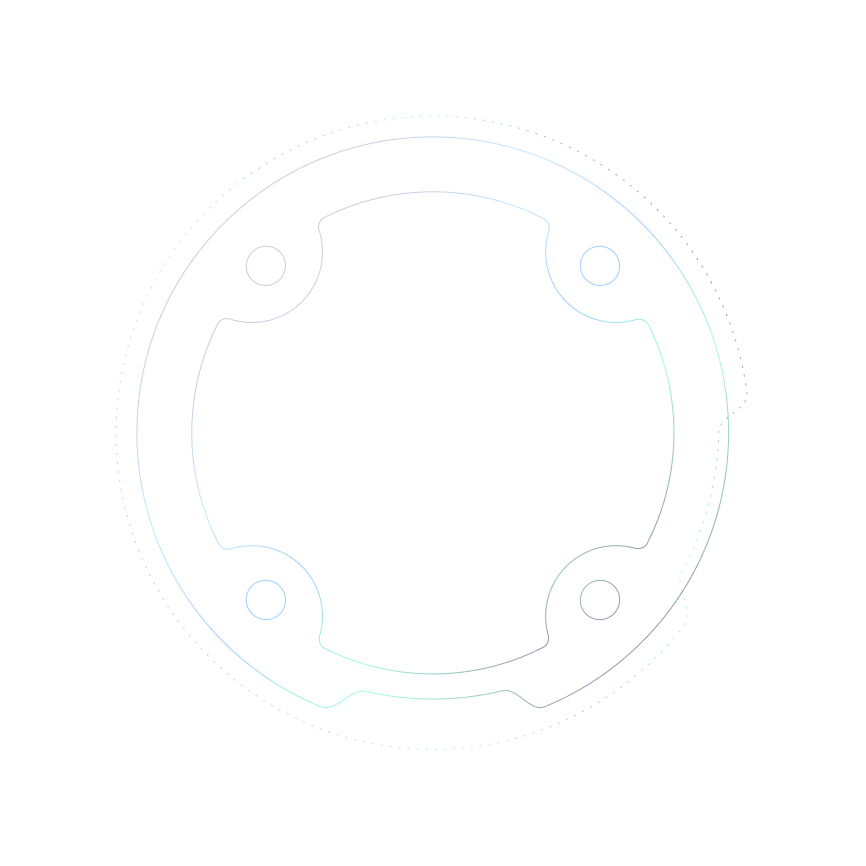
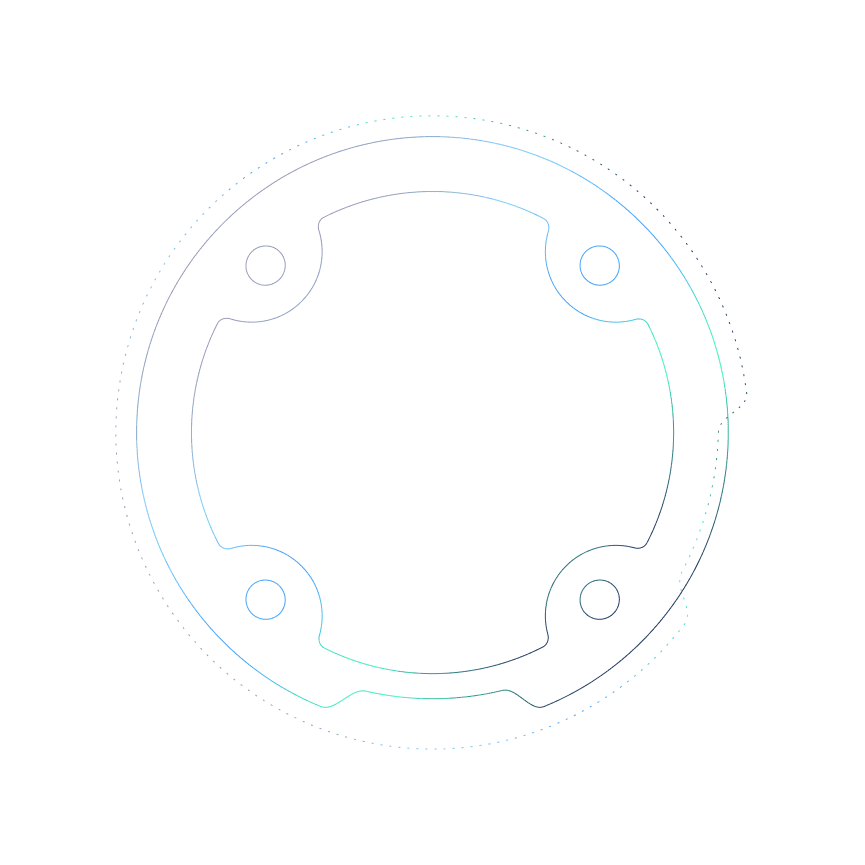
Added animation to circular panel, created responsive styles

Changed region(s): [[0.7803, 0.6555, 0.8116, 0.6867], [0.6867, 0.6867, 0.7179, 0.7179]]

diff --git a/frontend/src/components/AssistantDashboard/CirclularPanel/CirclularPanel.module.scss b/frontend/src/components/AssistantDashboard/CirclularPanel/CirclularPanel.module.scss
@@ -5,17 +5,88 @@
   top: 0;
   left: 0;
   overflow: hidden;
+  animation: ContainerAnimation 10s ease-in-out infinite;
+}
+
+@keyframes ContainerAnimation {
+  0% {
+    transform: translate(0, 0) scale(1);
+  }
+  25% {
+    transform: translate(2%, 0) scale(1.06);
+  }
+
+  50% {
+    transform: translate(-1%, 0.5%) scale(1.05);
+  }
+
+  75% {
+    transform: translate(0.5%, -0.5%) scale(0.95);
+  }
+
+  100% {
+    transform: translate(0, 0) scale(1);
+  }
 }
 
 .layer {
   position: absolute;
   background-position: center center;
-  width: 100vh;
-  height: 100vh;
-  top: 0;
+  top: 50%;
   left: 50%;
 
   background-repeat: no-repeat;
   background-size: cover;
-  transform: translateX(-50%);
+  transform: translate(-50%, -50%);
+}
+
+.layer1 {
+  width: 200vw;
+  height: 200vw;
+  animation: DefaultLayerAniamtion 20s linear infinite;
+}
+
+.layer2 {
+  width: 160vw;
+  height: 160vw;
+  animation: DefaultLayerAniamtion 16s linear infinite alternate-reverse;
+}
+
+.layer3 {
+  width: 140vw;
+  height: 140vw;
+  animation: DefaultLayerAniamtion 12s linear infinite;
+}
+
+.layer4 {
+  width: 100vw;
+  height: 100vw;
+  animation: DefaultLayerAniamtion 6s ease-in-out infinite alternate-reverse;
+}
+
+@keyframes DefaultLayerAniamtion {
+  0% {
+    transform: translate(-50%, -50%) rotate(0) translate(0, 0);
+    opacity: 0.2;
+  }
+  20%,
+  25% {
+    transform: translate(-50%, -50%) rotate(35deg) translate(0.5%, 0.2%);
+    opacity: 0.4;
+  }
+  45%,
+  50% {
+    transform: translate(-50%, -50%) rotate(0) translate(0, 0);
+    opacity: 0.4;
+  }
+  70%,
+  75% {
+    transform: translate(-50%, -50%) rotate(-35deg) translate(-0.2%, -0.7%);
+    opacity: 0.6;
+  }
+  95%,
+  100% {
+    transform: translate(-50%, -50%) rotate(0) translate(0, 0);
+    opacity: 0.2;
+  }
 }

diff --git a/frontend/src/components/AssistantDashboard/Assistant/Assistant.module.scss b/frontend/src/components/AssistantDashboard/Assistant/Assistant.module.scss
@@ -7,7 +7,7 @@
 
 .captain-container {
   position: absolute;
-  top: 0;
+  bottom: 0;
   left: 0;
   width: 100%;
   height: 100%;
@@ -27,13 +27,17 @@
 .captain {
   position: absolute;
   bottom: 0;
-  left: 0;
-  width: 100%;
-  height: 100dvh;
+  left: 50%;
+  width: 100vw;
+  height: 124vw;
 
-  background-position: center bottom;
+  background-position: center center;
   background-size: contain;
   background-repeat: no-repeat;
 
-  transform: scale(1.2) translateX(-4%) translateY(-4dvh);
+  transform: scale(1.1) translateX(-45%);
+
+  @media (min-aspect-ratio: 1.5/1) {
+    transform: scale(0.6) translateX(-85%) translateY(-10%);
+  }
 }

diff --git a/frontend/src/components/AssistantDashboard/AssistantDashboard.module.scss b/frontend/src/components/AssistantDashboard/AssistantDashboard.module.scss
@@ -2,7 +2,27 @@
   width: 100%;
   height: 100%;
   position: relative;
-  top: 0;
+  bottom: 0;
   left: 0;
-  
+  overflow: hidden;
+}
+
+.assistant-wrapper {
+  position: absolute;
+  bottom: -5vw;
+  width: 100vw;
+  height: 180vw;
+
+  @media (min-width: 85vh) {
+    top: -50%;
+    bottom: unset;
+  }
+
+  @media (min-aspect-ratio: 1/1) {
+    top: -50vw;
+  }
+
+  @media (min-aspect-ratio: 1.5/1) {
+    top: -70vw;
+  }
 }

diff --git a/frontend/src/components/AssistantDashboard/AssistantDashboard.jsx b/frontend/src/components/AssistantDashboard/AssistantDashboard.jsx
@@ -8,8 +8,11 @@ export default function AssistantDashboard() {
   return (
     <div className={styles.container}>
       <Background />
-      <Assistant />
-      <CirclularPanel />
+
+      <div className={styles['assistant-wrapper']}>
+        <CirclularPanel />
+        <Assistant />
+      </div>
     </div>
   );
 }
